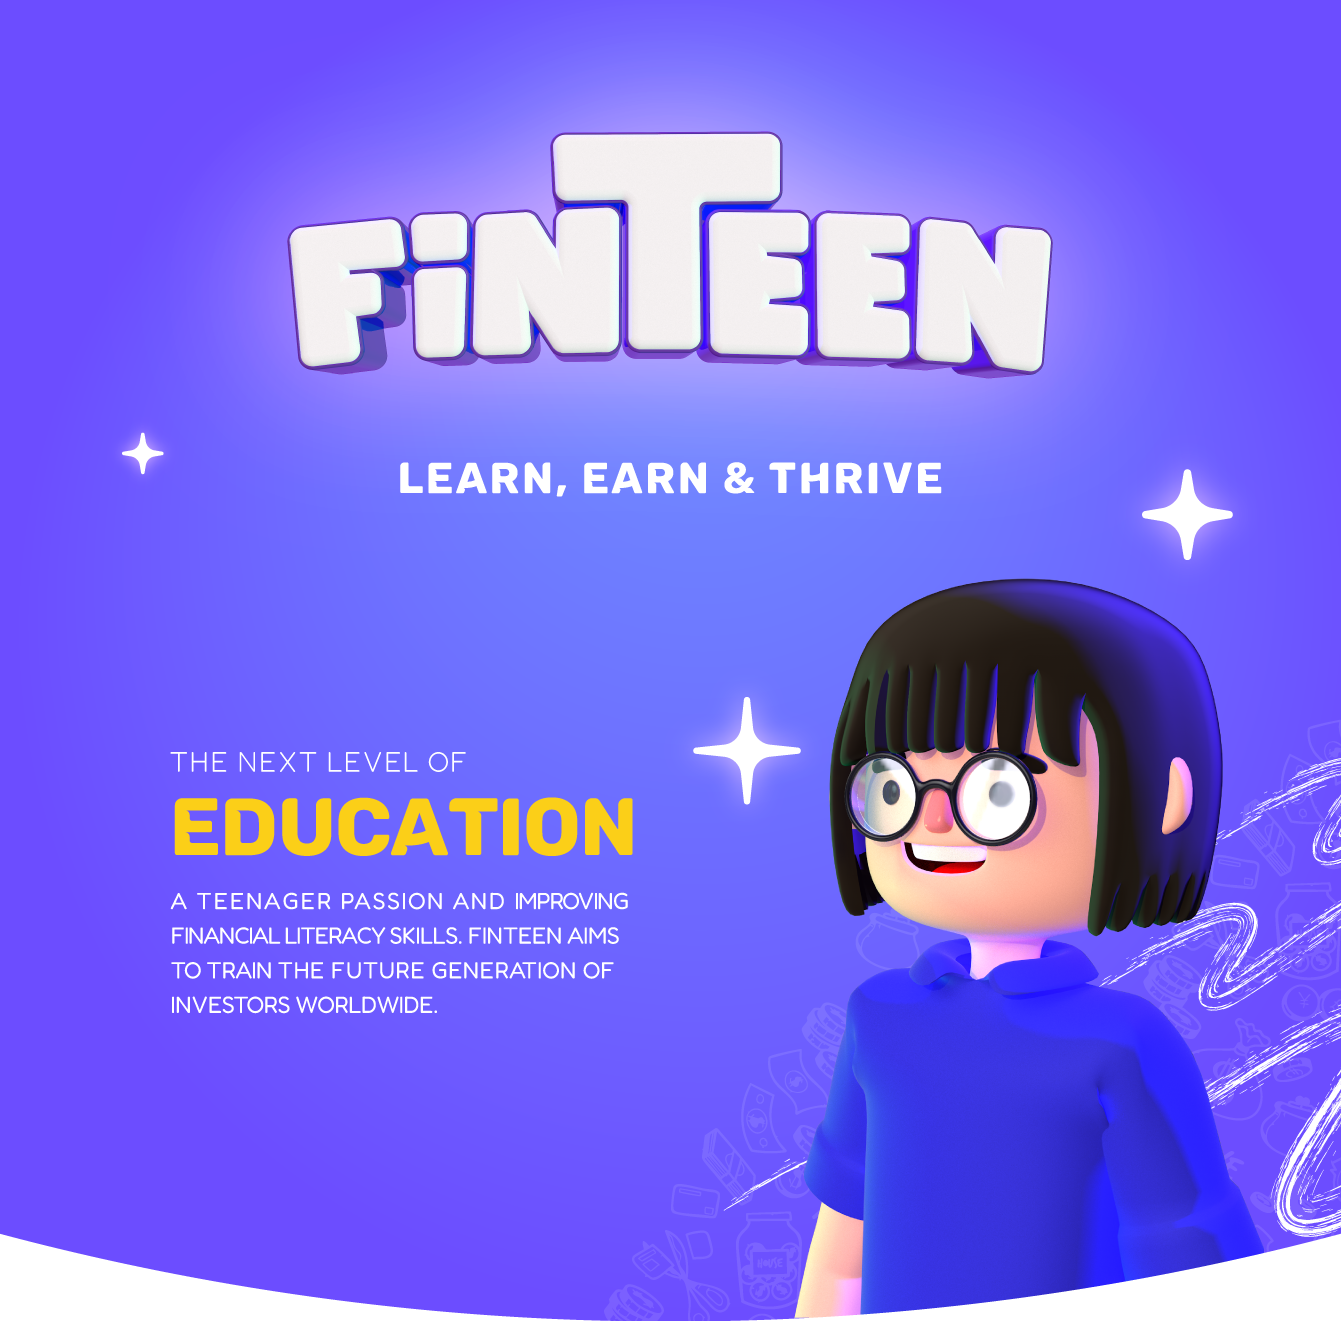
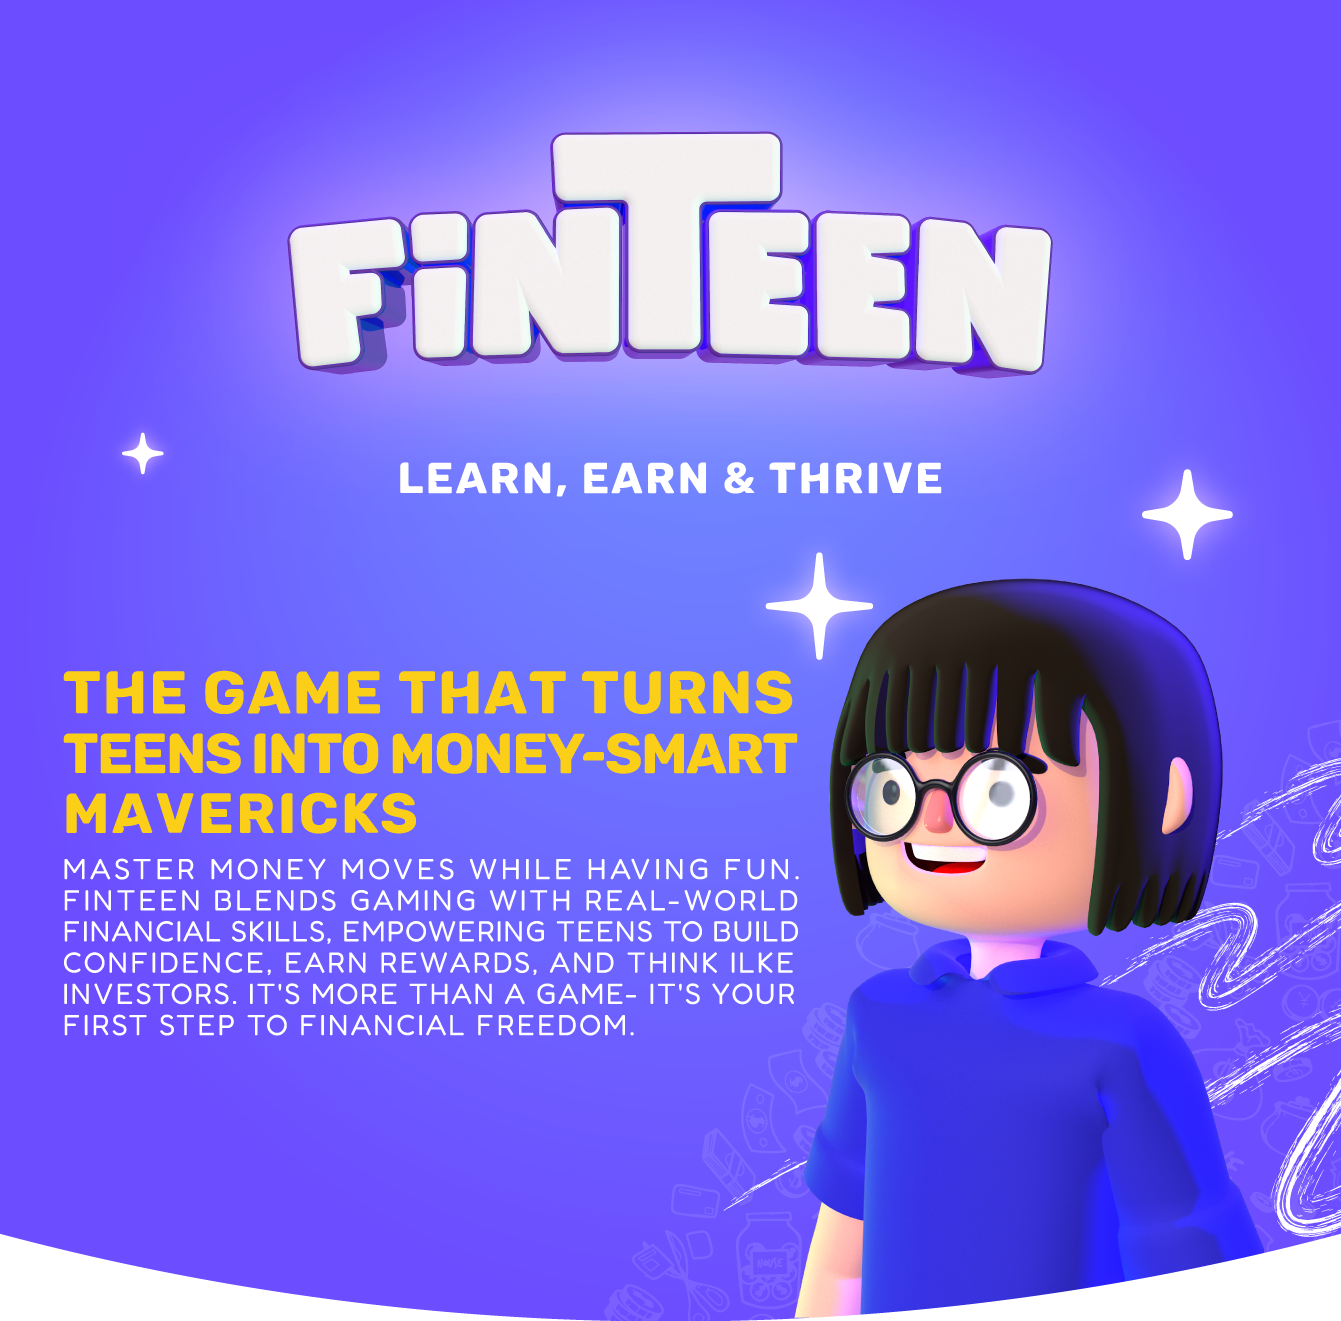
change

Changed region(s): [[0.0306, 0.4035, 0.6421, 0.807]]

diff --git a/index.html b/index.html
@@ -8,6 +8,10 @@
 
   <title>FINTEEN</title>
   <style>
+    @import url('https://fonts.googleapis.com/css2?family=Fredoka:wght@500&display=swap');
+    *{
+       font-family: "Fredoka", sans-serif;
+    }
     body {
       margin: 0;
       padding: 20px;
@@ -51,7 +55,19 @@
       opacity: .9;
     }
     
-
+.pblock{
+  display: block;
+  width: 70%;
+  padding: 10px;
+  background-color: #ffffff71;
+  font-weight: 700;
+  color: #6A57FF;
+text-align: center;
+margin: 3rem 0;
+border-radius: 50px;;
+filter: drop-shadow(0 0 35px #ffffff)drop-shadow(0 0 35px #ffffff)drop-shadow(0 0 35px #ffffff);
+z-index: -10;
+}
 
 @keyframes pulse {
   0% {
@@ -69,12 +85,16 @@
 <body>
 
   <div class="image-stack">
-    <img src="images/top.png" alt="FINTEEN">
+    <img src="images/top.png" alt="FINTEEN" style="border-radius: 25px;">
     
     <a href="Finteen.apk" download>
       <img src="images/center.png" alt="FINTEEN" class="middle">
     </a>
-    
+    <div class="pblock">
+    <h3>
+      YOUR MONEY. YOUR GAME. YOUR FUTURE.
+    </h3>
+    </div>
     <img src="images/footer.png" class="footer" alt="FINTEEN">
   </div>
 
